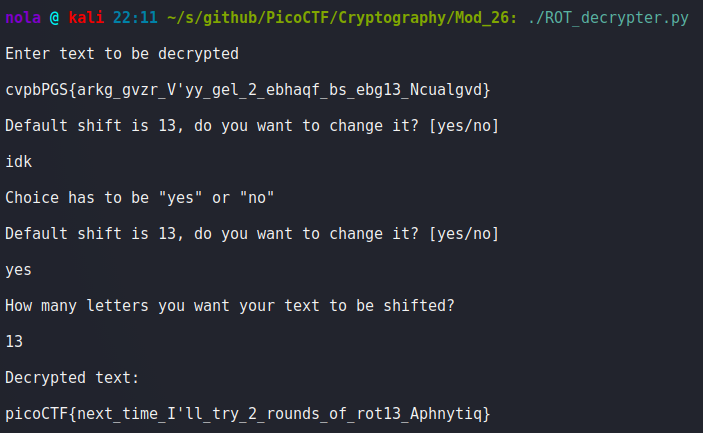
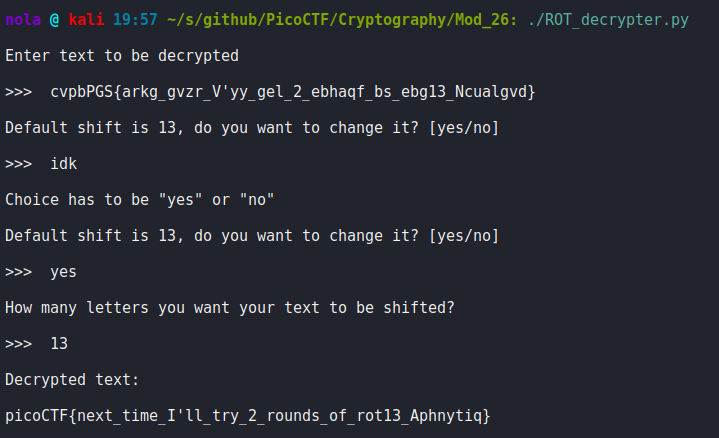
Minor changes

diff --git a/Cryptography/Mod_26/ROT_decrypter.py b/Cryptography/Mod_26/ROT_decrypter.py
@@ -4,9 +4,9 @@ import string
 
 
 def get_shift():
-    _choice = input('\nDefault shift is 13, do you want to change it? [yes/no]\n\n')
+    _choice = input('\nDefault shift is 13, do you want to change it? [yes/no]\n\n>>>  ')
     if _choice == 'yes':
-        shift = input('\nHow many letters you want your text to be shifted?\n\n')
+        shift = input('\nHow many letters you want your text to be shifted?\n\n>>>  ')
         shift = int(shift)
 
         if shift >= 26:
@@ -66,7 +66,7 @@ def decryption(shift, encrypted):
 
 
 
-encrypted = input('\nEnter text to be decrypted\n\n')
+encrypted = input('\nEnter text to be decrypted\n\n>>>  ')
 
 if __name__=='__main__':
     shift = get_shift()
